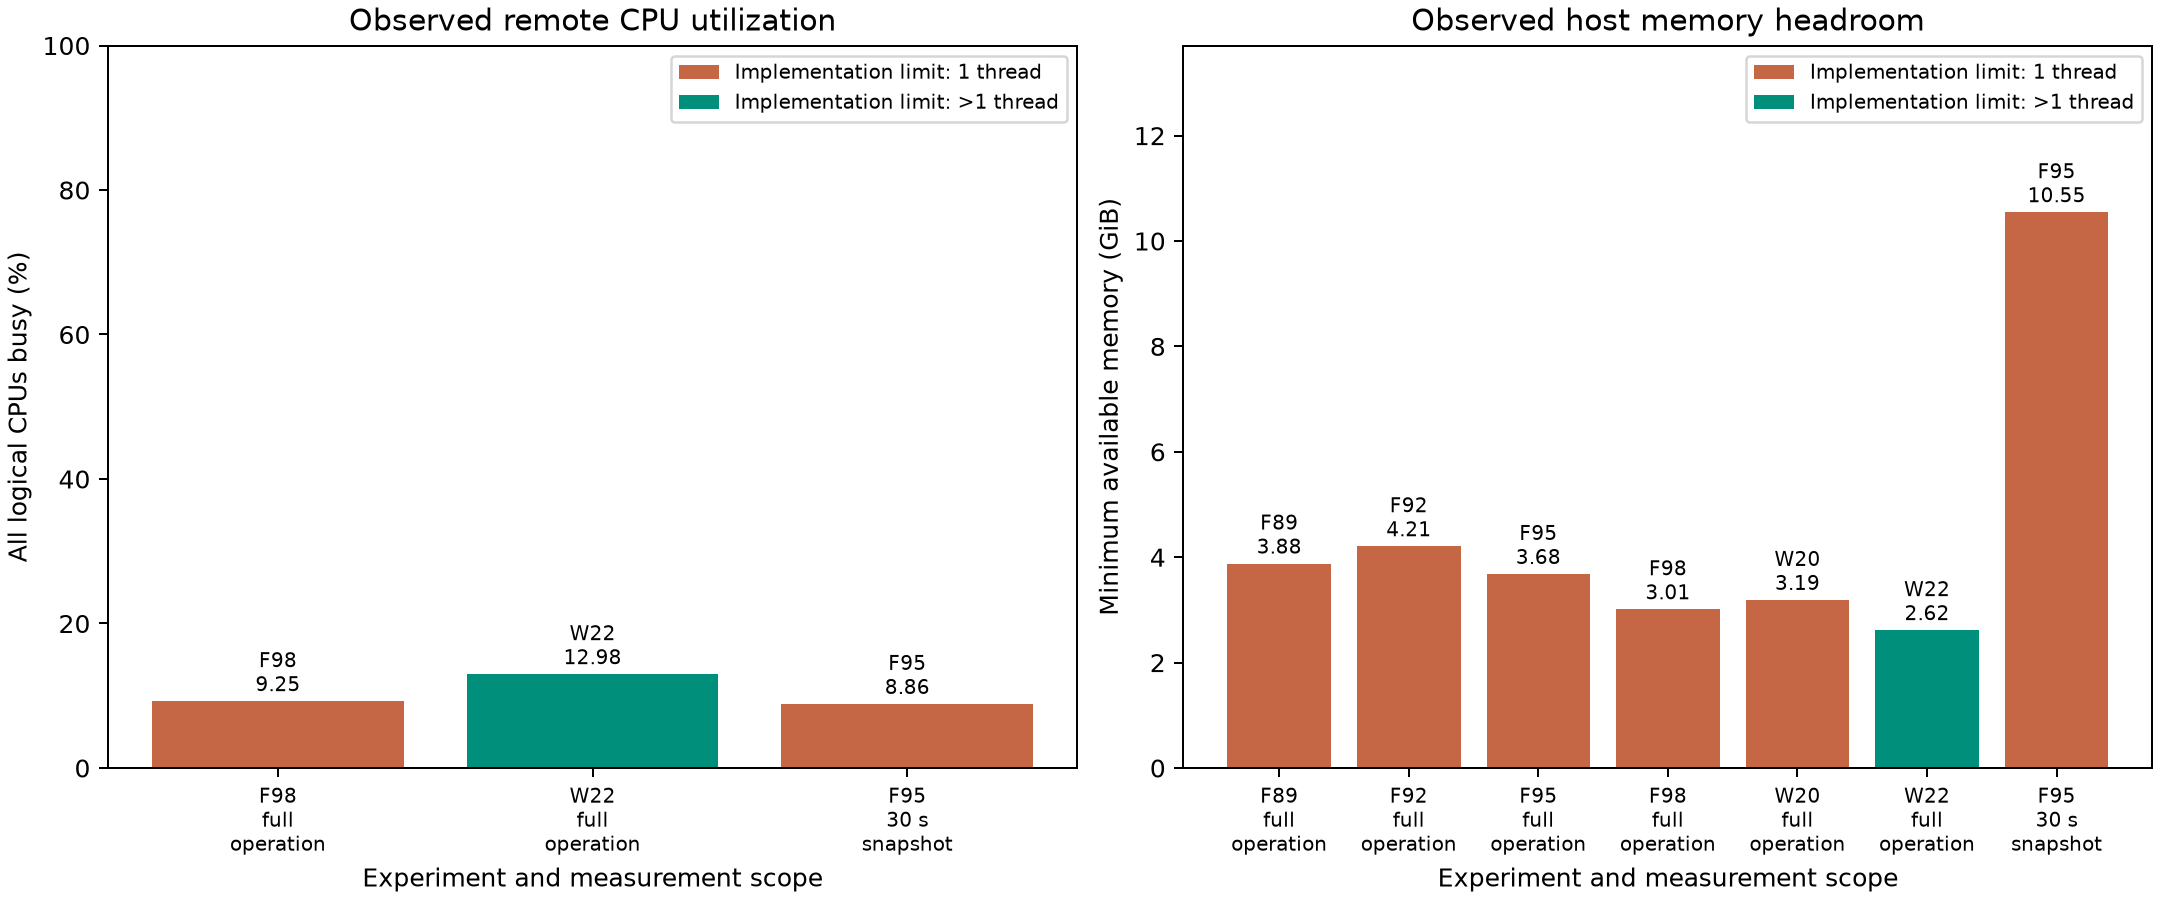
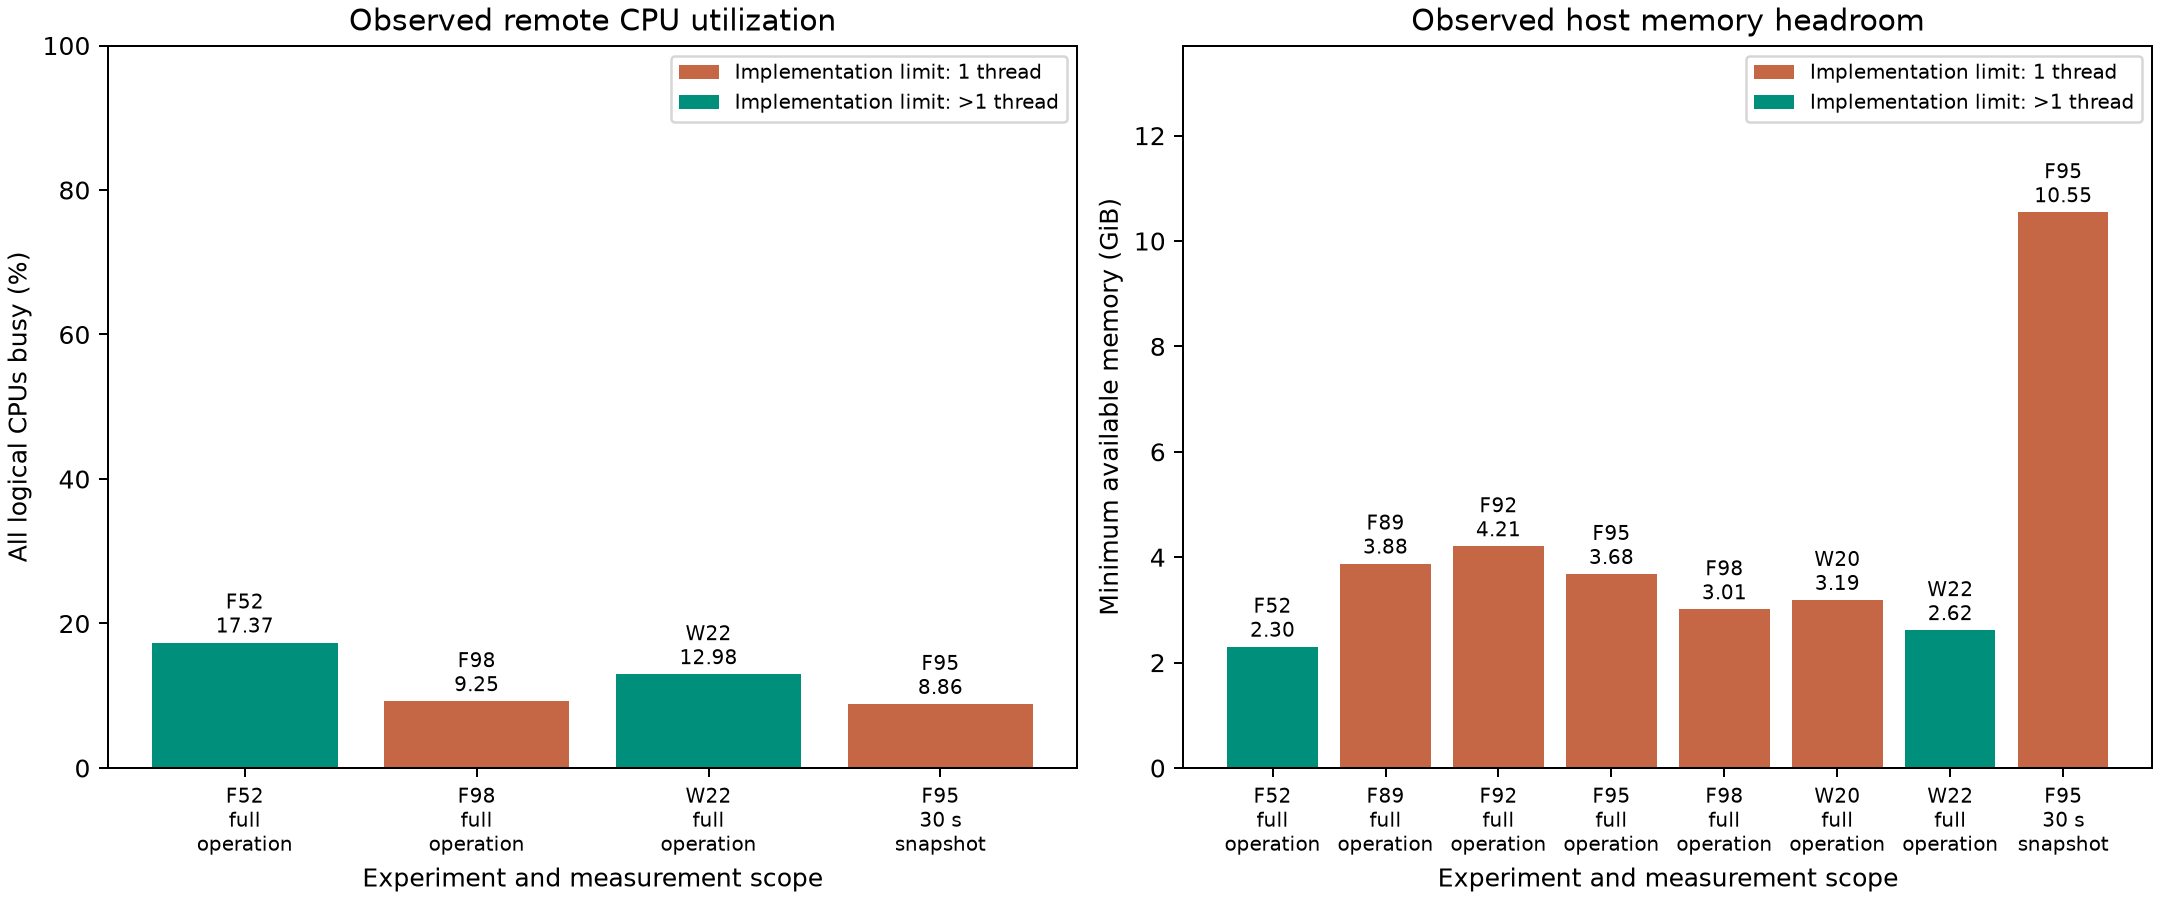
C18 separate_stage_memory_and_cpu_accounting

diff --git a/exp/analyze_route.py b/exp/analyze_route.py
@@ -58,6 +58,40 @@ def hierarchy(text):
     return records
 
 
+def memory_summary(archive, config):
+    staged = config.get("implementation_backend") == "staged_packaged_flow"
+    names = (["impl_synth_host_memory.csv", "impl_route_host_memory.csv"] if staged else
+             ["impl_host_memory.csv" if (archive / "impl_host_memory.csv").is_file() else "host_memory.csv"])
+    samples, phases = [], []
+    for name in names:
+        path = archive / name
+        rows = []
+        if path.is_file():
+            with path.open(newline="") as stream:
+                rows = list(csv.DictReader(stream))
+        values = {"samples": len(rows),
+                  "min_available_GiB": min(float(row["available_kib"]) for row in rows)/1048576 if rows else None,
+                  "peak_tool_RSS_GiB": max(float(row["tool_rss_kib"]) for row in rows)/1048576 if rows else None,
+                  "peak_process_tree_RSS_GiB": max(float(row["task_tree_rss_kib"]) for row in rows)/1048576
+                  if rows and "task_tree_rss_kib" in rows[0] else None,
+                  **cpu_summary(rows)}
+        phases.append({"telemetry_file": name, **values})
+        samples.extend({**row, "telemetry_segment": name} for row in rows)
+    values = {"samples": len(samples),
+              "min_available_GiB": min(float(row["available_kib"]) for row in samples)/1048576 if samples else None,
+              "peak_tool_RSS_GiB": max(float(row["tool_rss_kib"]) for row in samples)/1048576 if samples else None,
+              "peak_process_tree_RSS_GiB": max(float(row["task_tree_rss_kib"]) for row in samples)/1048576
+              if samples and all("task_tree_rss_kib" in row for row in samples) else None,
+              "telemetry_file": ";".join(names),
+              "implementation_threads": config.get("implementation_threads", 1),
+              **cpu_summary(samples, segment_key="telemetry_segment")}
+    if staged:
+        values["measurement_scope"] = "synthesis and implementation stages"
+        values["missing_telemetry_files"] = [item["telemetry_file"] for item in phases if not item["samples"]]
+        write_csv(archive / "host_memory_phases.csv", phases, list(phases[0]))
+    return values, phases
+
+
 def analyze(archive):
     config = json.loads((archive / "config.json").read_text())
     metrics = json.loads((archive / "metrics.json").read_text())
@@ -99,16 +133,7 @@ def analyze(archive):
         paths = setup_paths(extra_paths.read_text())
     write_csv(archive / "route_analysis.csv", [values], list(values))
     write_csv(archive / "critical_paths.csv", paths, ["path","slack_ns","source","destination","logic_levels","data_path_ns","DSP_sites","DSP_cascade_PCIN_PCOUT"])
-    memory = archive / ("impl_host_memory.csv" if (archive / "impl_host_memory.csv").is_file()
-                        else "host_memory.csv")
-    samples = list(csv.DictReader(memory.open(newline=""))) if memory.is_file() else []
-    memory_values = {"samples":len(samples), "min_available_GiB":min(float(item["available_kib"]) for item in samples)/1048576 if samples else None,
-                     "peak_tool_RSS_GiB":max(float(item["tool_rss_kib"]) for item in samples)/1048576 if samples else None,
-                     "peak_process_tree_RSS_GiB":max(float(item["task_tree_rss_kib"]) for item in samples)/1048576
-                     if samples and "task_tree_rss_kib" in samples[0] else None,
-                     "telemetry_file": memory.name,
-                     "implementation_threads": config.get("implementation_threads", 1),
-                     **cpu_summary(samples)}
+    memory_values, memory_phases = memory_summary(archive, config)
     write_csv(archive / "host_memory_summary.csv", [memory_values], list(memory_values))
     block = "<!-- AUTO: ROUTE ANALYSIS START -->\n\n"
     block += ("Routed calibration (final timing/resource acceptance uses independent routed gates):\n\n"
@@ -117,6 +142,9 @@ def analyze(archive):
     block += "\n`period_from_slack_ns = implementation target - WNS` is a slack-derived estimate. Negative slack requires a fresh relaxed-constraint implementation; this arithmetic alone does not prove timing closure. No board result is inferred.\n\n"
     block += "First five available setup paths:\n\n" + markdown_table(paths, ["path","slack_ns","source","destination","logic_levels","data_path_ns","DSP_sites","DSP_cascade_PCIN_PCOUT"])
     block += "\nHost memory during the operation:\n\n" + markdown_table([memory_values], list(memory_values))
+    if config.get("implementation_backend") == "staged_packaged_flow":
+        block += "\nSeparate tool stages (queue/package intervals and CPU counter gaps are excluded):\n\n"
+        block += markdown_table(memory_phases, list(memory_phases[0]))
     block += "\nTool RSS and CPU utilization cover the entire host; process-tree RSS covers this task. Shared mappings may be counted more than once.\n"
     hierarchy_rows = []
     top = config.get("parent_config", {}).get("top", "srcnn")

diff --git a/exp/tests/test_staged_memory_analysis.py b/exp/tests/test_staged_memory_analysis.py
@@ -1,0 +1,61 @@
+import csv
+from pathlib import Path
+import sys
+import tempfile
+import unittest
+
+sys.path.insert(0, str(Path(__file__).resolve().parents[1]))
+from analyze_route import memory_summary
+
+
+def telemetry(path, rss, counters):
+    rows = [{"available_kib": 5*1048576, "tool_rss_kib": rss*1048576,
+             "task_tree_rss_kib": rss*1048576, "cpu_total_ticks": total,
+             "cpu_idle_ticks": idle, "logical_cpus": 12, "load1": 1.5}
+            for total, idle in counters]
+    with path.open("w", newline="") as stream:
+        writer = csv.DictWriter(stream, fieldnames=list(rows[0]))
+        writer.writeheader()
+        writer.writerows(rows)
+
+
+class StagedMemoryAnalysisTests(unittest.TestCase):
+    def test_stage_measurements_do_not_include_another_tasks_waiting_peak(self):
+        with tempfile.TemporaryDirectory() as temp:
+            archive = Path(temp)
+            telemetry(archive/"host_memory.csv", 100, [(100, 0), (5100, 0)])
+            telemetry(archive/"impl_synth_host_memory.csv", 7, [(100, 80), (200, 160)])
+            telemetry(archive/"impl_route_host_memory.csv", 8, [(5000, 160), (5100, 240)])
+            result, phases = memory_summary(archive, {"implementation_backend": "staged_packaged_flow"})
+            self.assertEqual(result["peak_process_tree_RSS_GiB"], 8)
+            self.assertEqual(result["samples"], 4)
+            self.assertEqual(result["cpu_busy_pct"], 20)
+            self.assertEqual(result["missing_telemetry_files"], [])
+            self.assertEqual([row["peak_process_tree_RSS_GiB"] for row in phases], [7, 8])
+            self.assertTrue((archive/"host_memory_phases.csv").is_file())
+
+    def test_missing_stage_is_explicit_and_does_not_use_global_samples(self):
+        with tempfile.TemporaryDirectory() as temp:
+            archive = Path(temp)
+            telemetry(archive/"host_memory.csv", 100, [(100, 0), (5100, 0)])
+            result, phases = memory_summary(archive, {"implementation_backend": "staged_packaged_flow"})
+            self.assertIsNone(result["peak_process_tree_RSS_GiB"])
+            self.assertEqual(result["samples"], 0)
+            self.assertEqual(len(result["missing_telemetry_files"]), 2)
+            self.assertTrue(all(row["samples"] == 0 for row in phases))
+
+    def test_existing_single_process_implementation_uses_its_own_samples(self):
+        with tempfile.TemporaryDirectory() as temp:
+            archive = Path(temp)
+            telemetry(archive/"host_memory.csv", 100, [(100, 0), (5100, 0)])
+            telemetry(archive/"impl_host_memory.csv", 12, [(100, 80), (200, 160)])
+            result, phases = memory_summary(archive, {})
+            self.assertEqual(result["peak_process_tree_RSS_GiB"], 12)
+            self.assertEqual(result["cpu_busy_pct"], 20)
+            self.assertEqual(result["telemetry_file"], "impl_host_memory.csv")
+            self.assertEqual(len(phases), 1)
+            self.assertNotIn("missing_telemetry_files", result)
+
+
+if __name__ == "__main__":
+    unittest.main()

diff --git a/exp/plots/host_utilization.py b/exp/plots/host_utilization.py
@@ -15,7 +15,8 @@ from host_memory import cpu_summary
 records = []
 for path in sorted((root / "experiments").glob("*_*/host_memory_summary.csv")):
     for row in csv.DictReader(path.open(newline="")):
-        records.append({**row, "id": path.parent.name.split("_", 1)[0], "scope": "full operation"})
+        records.append({**row, "id": path.parent.name.split("_", 1)[0],
+                        "scope": row.get("measurement_scope", "full operation")})
 for path in sorted((root / "experiments").glob("*_*/host_utilization_baseline.csv")):
     samples = list(csv.DictReader(path.open(newline="")))
     if samples:
@@ -38,7 +39,8 @@ for axis, metric, ylabel, title in zip(axes, ("cpu_busy_pct", "min_available_GiB
         axis.annotate(row["id"]+f"\n{value:.2f}", (index, value), xytext=(0, 4),
                       textcoords="offset points", ha="center", fontsize=8)
     axis.set_xticks(range(len(available)), [row["id"]+"\n"+(
-        "full\noperation" if row["scope"] == "full operation" else "30 s\nsnapshot")
+        "full\noperation" if row["scope"] == "full operation" else
+        "synth+\nroute" if row["scope"] == "synthesis and implementation stages" else "30 s\nsnapshot")
         for row in available], fontsize=8)
     axis.set_xlabel("Experiment and measurement scope")
     axis.set_ylabel(ylabel)

diff --git a/exp/tests/test_host_memory.py b/exp/tests/test_host_memory.py
@@ -44,6 +44,16 @@ class MemorySampleTests(unittest.TestCase):
         self.assertIsNone(cpu_summary([{}, {}])["cpu_busy_pct"])
         self.assertIsNone(cpu_summary(list(reversed(rows)))["cpu_busy_pct"])
 
+    def test_separate_tool_segments_exclude_busy_queue_gaps(self):
+        rows = [{"cpu_total_ticks": total, "cpu_idle_ticks": idle,
+                 "logical_cpus": 12, "load1": 1.5, "phase": phase}
+                for total, idle, phase in ((100, 80, "synth"), (200, 160, "synth"),
+                                           (5000, 160, "route"), (5100, 240, "route"))]
+        result = cpu_summary(rows, segment_key="phase")
+        self.assertEqual(result["cpu_intervals"], 2)
+        self.assertEqual(result["cpu_busy_pct"], 20)
+        self.assertGreater(cpu_summary(rows)["cpu_busy_pct"], 90)
+
 
 if __name__ == "__main__":
     unittest.main()

diff --git a/exp/host_memory.py b/exp/host_memory.py
@@ -22,9 +22,11 @@ def cpu_sample(proc_root):
     return result
 
 
-def cpu_summary(rows):
+def cpu_summary(rows, *, segment_key=None):
     total, idle, intervals = 0, 0, 0
     for first, last in zip(rows, rows[1:]):
+        if segment_key is not None and first.get(segment_key) != last.get(segment_key):
+            continue
         try:
             elapsed = int(last["cpu_total_ticks"])-int(first["cpu_total_ticks"])
             waiting = int(last["cpu_idle_ticks"])-int(first["cpu_idle_ticks"])
